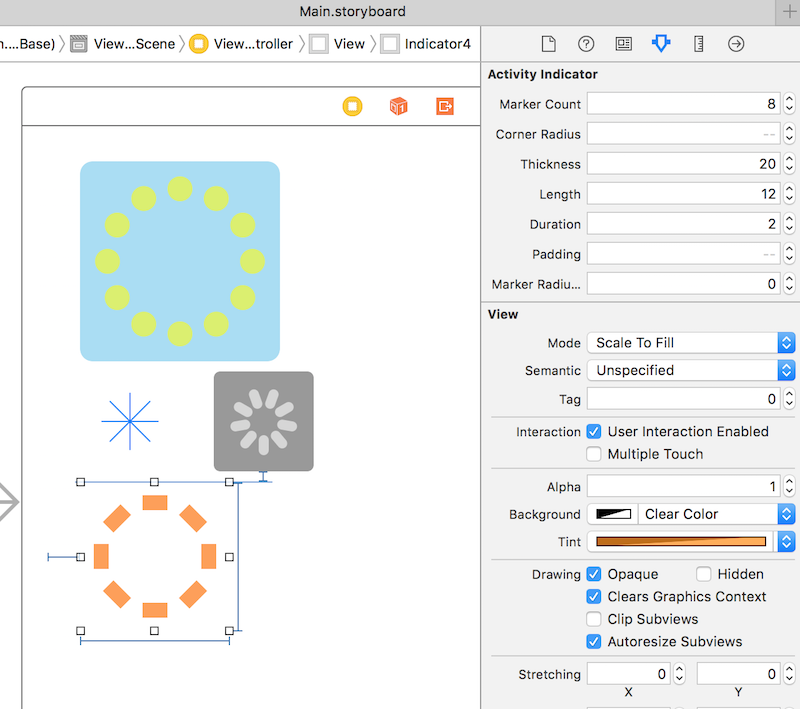
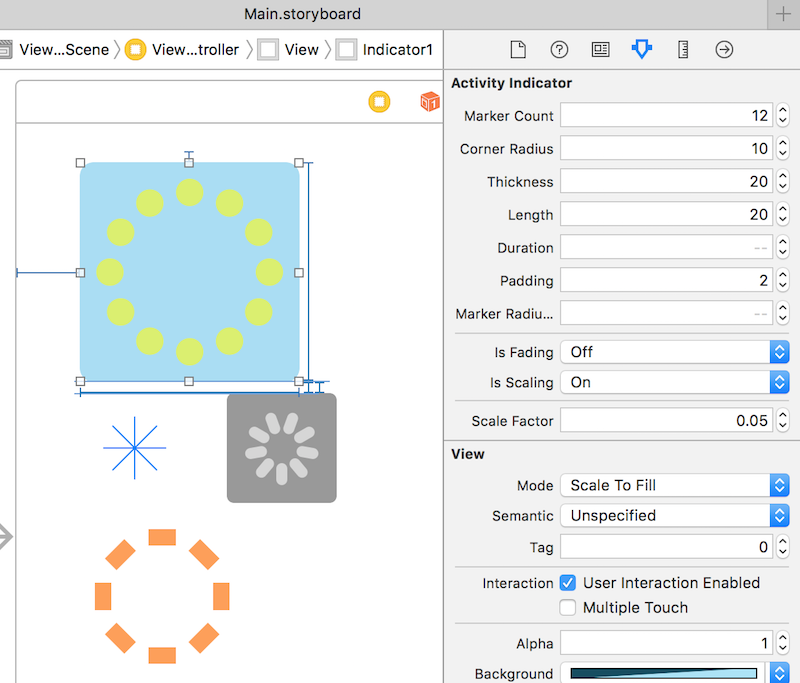
Add shrink effect

Changed region(s): [[0.0, 0.0, 1.0, 1.0], [0.0625, 0.2152, 0.4375, 0.9839]]

diff --git a/WOWActivityIndicatorDemo/WOWActivityIndicator.swift b/WOWActivityIndicatorDemo/WOWActivityIndicator.swift
@@ -48,6 +48,10 @@ public class WOWActivityIndicator: UIView {
         }
     }
 
+    @IBInspectable public var isFading : Bool = true
+    @IBInspectable public var isScaling : Bool = false
+    @IBInspectable public var scaleFactor : CGFloat = 0.01
+
 #if !TARGET_INTERFACE_BUILDER
     // This called before properties setup in IB
     override init(frame: CGRect) {
@@ -88,7 +92,7 @@ public class WOWActivityIndicator: UIView {
 
         spinnerReplicator = CAReplicatorLayer()
         spinnerReplicator.bounds = self.bounds
-        spinnerReplicator.position = CGPointMake(self.frame.width/CGFloat(2),self.frame.height/CGFloat(2))
+        spinnerReplicator.position = CGPointMake(self.frame.width/2.0,self.frame.height/2.0)
         
         let angle = CGFloat(2.0*M_PI)/CGFloat(markerCount)
         let instanceRotation = CATransform3DMakeRotation(angle, 0.0, 0.0, 1.0)
@@ -101,26 +105,44 @@ public class WOWActivityIndicator: UIView {
         
     }
     
+    // MARK: public methods
     public func startAnimation() {
-        
-        marker.opacity = 0
-        
-        let fade = CABasicAnimation(keyPath: "opacity")
-        fade.fromValue = 1.0
-        fade.toValue = 0.0
-        fade.timingFunction = CAMediaTimingFunction(name: kCAMediaTimingFunctionLinear)
-        fade.repeatCount = Float.infinity
-        fade.duration = duration
-        
+
         let markerAnimationDuration = duration/Double(markerCount)
         spinnerReplicator.instanceDelay = markerAnimationDuration
-        marker.addAnimation(fade, forKey: kMarkerAnimationKey)
         
+        if isFading {
+            marker.opacity = 0
+            
+            // fade effect
+            let fade = CABasicAnimation(keyPath: "opacity")
+            fade.fromValue = 1.0
+            fade.toValue = 0.0
+            fade.timingFunction = CAMediaTimingFunction(name: kCAMediaTimingFunctionLinear)
+            fade.repeatCount = Float.infinity
+            fade.duration = duration
+            
+            marker.addAnimation(fade, forKey: kMarkerAnimationKey)
+        }
+        
+        // shrink effect
+        if isScaling {
+            marker.transform = CATransform3DMakeScale(scaleFactor, scaleFactor, 1)
+            let shrink = CABasicAnimation(keyPath:"transform.scale")
+            shrink.fromValue = 1.0
+            shrink.toValue = scaleFactor
+            shrink.duration = duration
+            shrink.repeatCount = Float.infinity
+            
+            marker.addAnimation(shrink,forKey:"")
+        }
     }
     
     public func stopAnimation() {
         
-        marker.removeAllAnimations()        
+        marker.removeAllAnimations()
+        marker = nil
+        spinnerReplicator = nil
     }
 
 }
